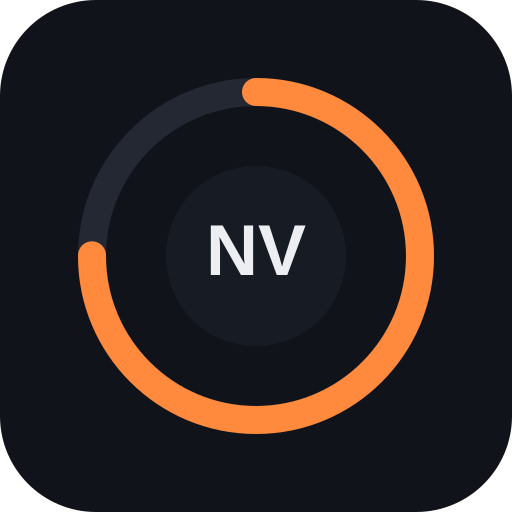
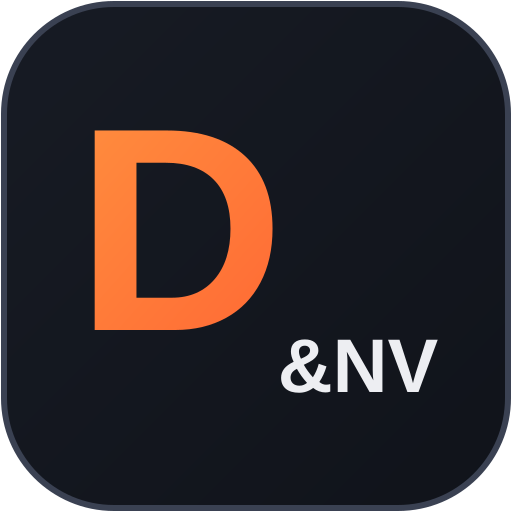
Add files via upload

Changed region(s): [[0.125, 0.125, 0.875, 0.875], [0.0, 0.0, 1.0, 1.0]]

diff --git a/index.html b/index.html
@@ -11,7 +11,7 @@
     <meta name="apple-mobile-web-app-status-bar-style" content="black-translucent" />
     <link rel="apple-touch-icon" href="./icon-192.png" />
     <title>Dovolená &amp; NV</title>
-    <script type="module" crossorigin src="./assets/index-Trw7rW0s.js"></script>
+    <script type="module" crossorigin src="./assets/index-Co3JShPC.js"></script>
     <link rel="stylesheet" crossorigin href="./assets/index-CBYt8LED.css">
   </head>
   <body>